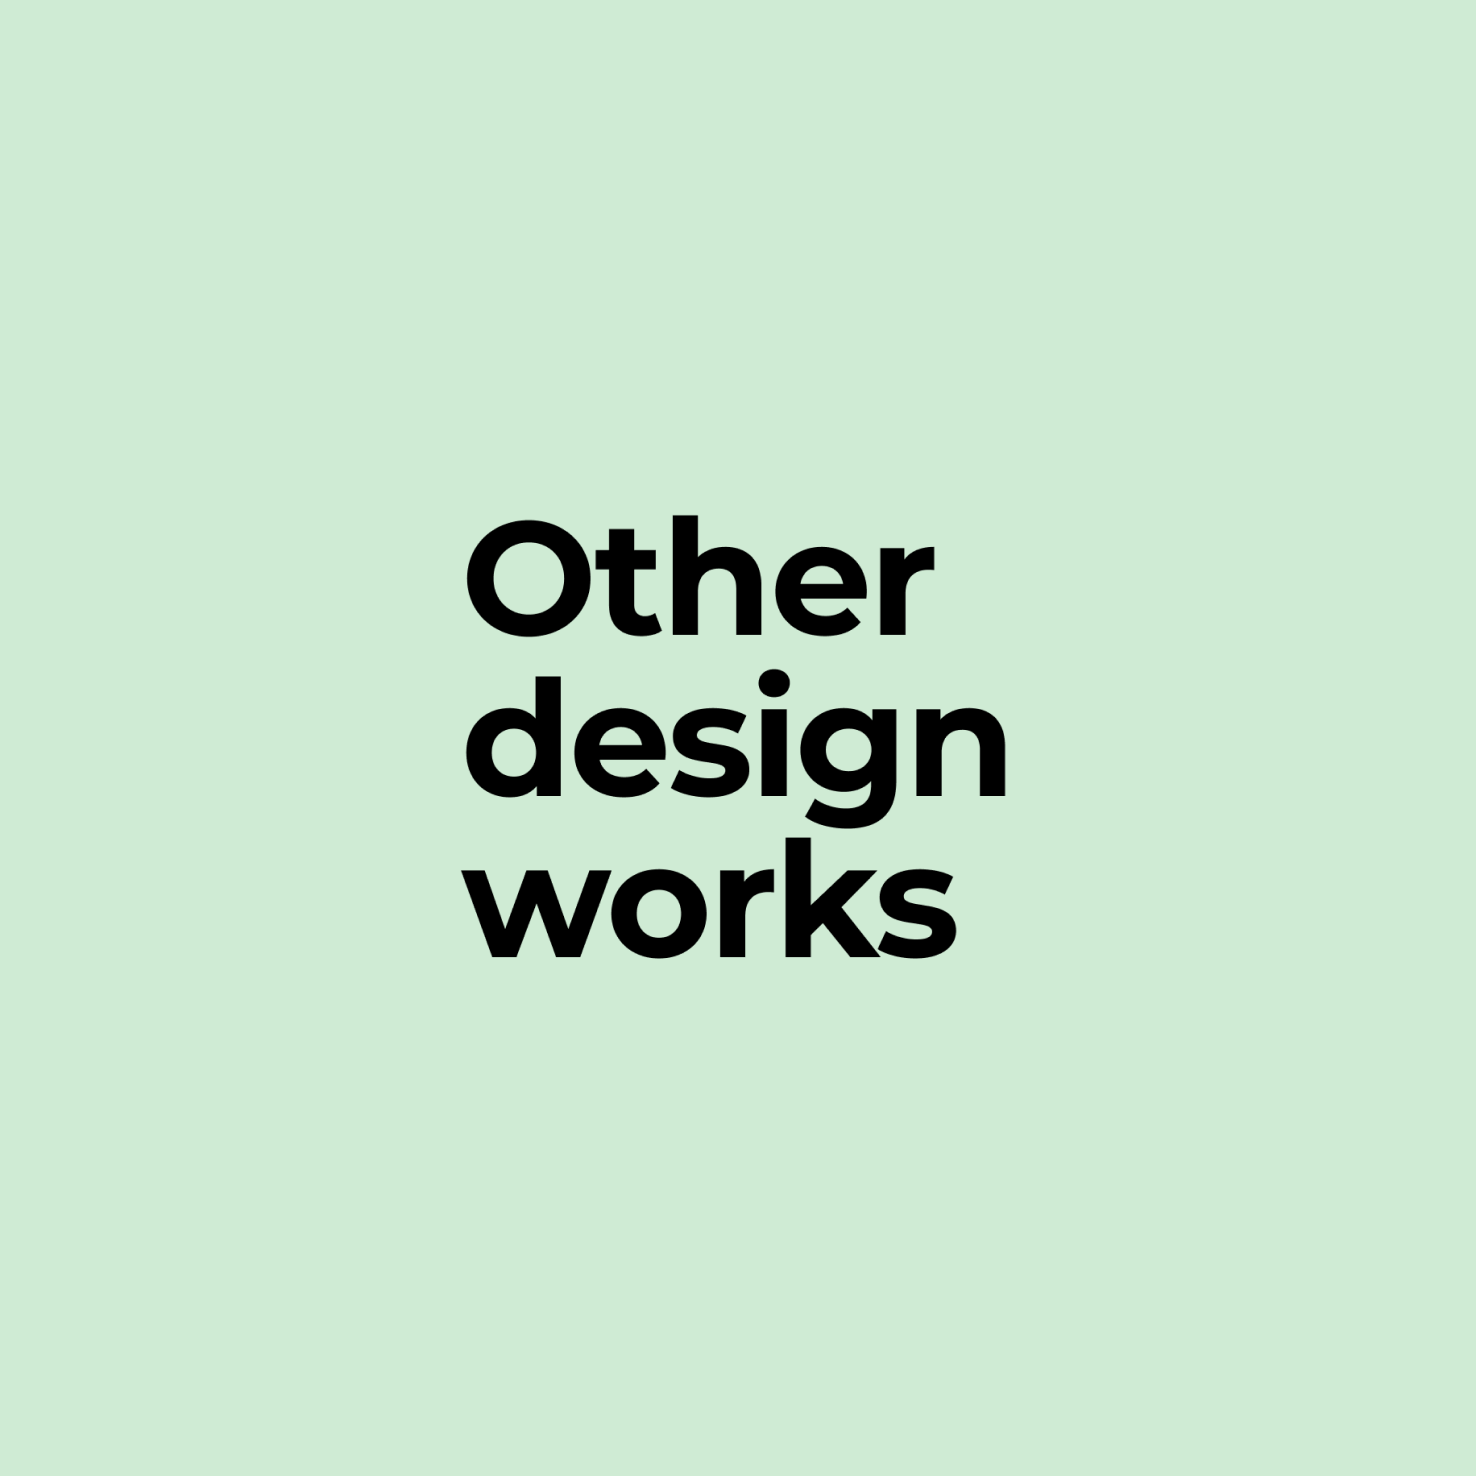
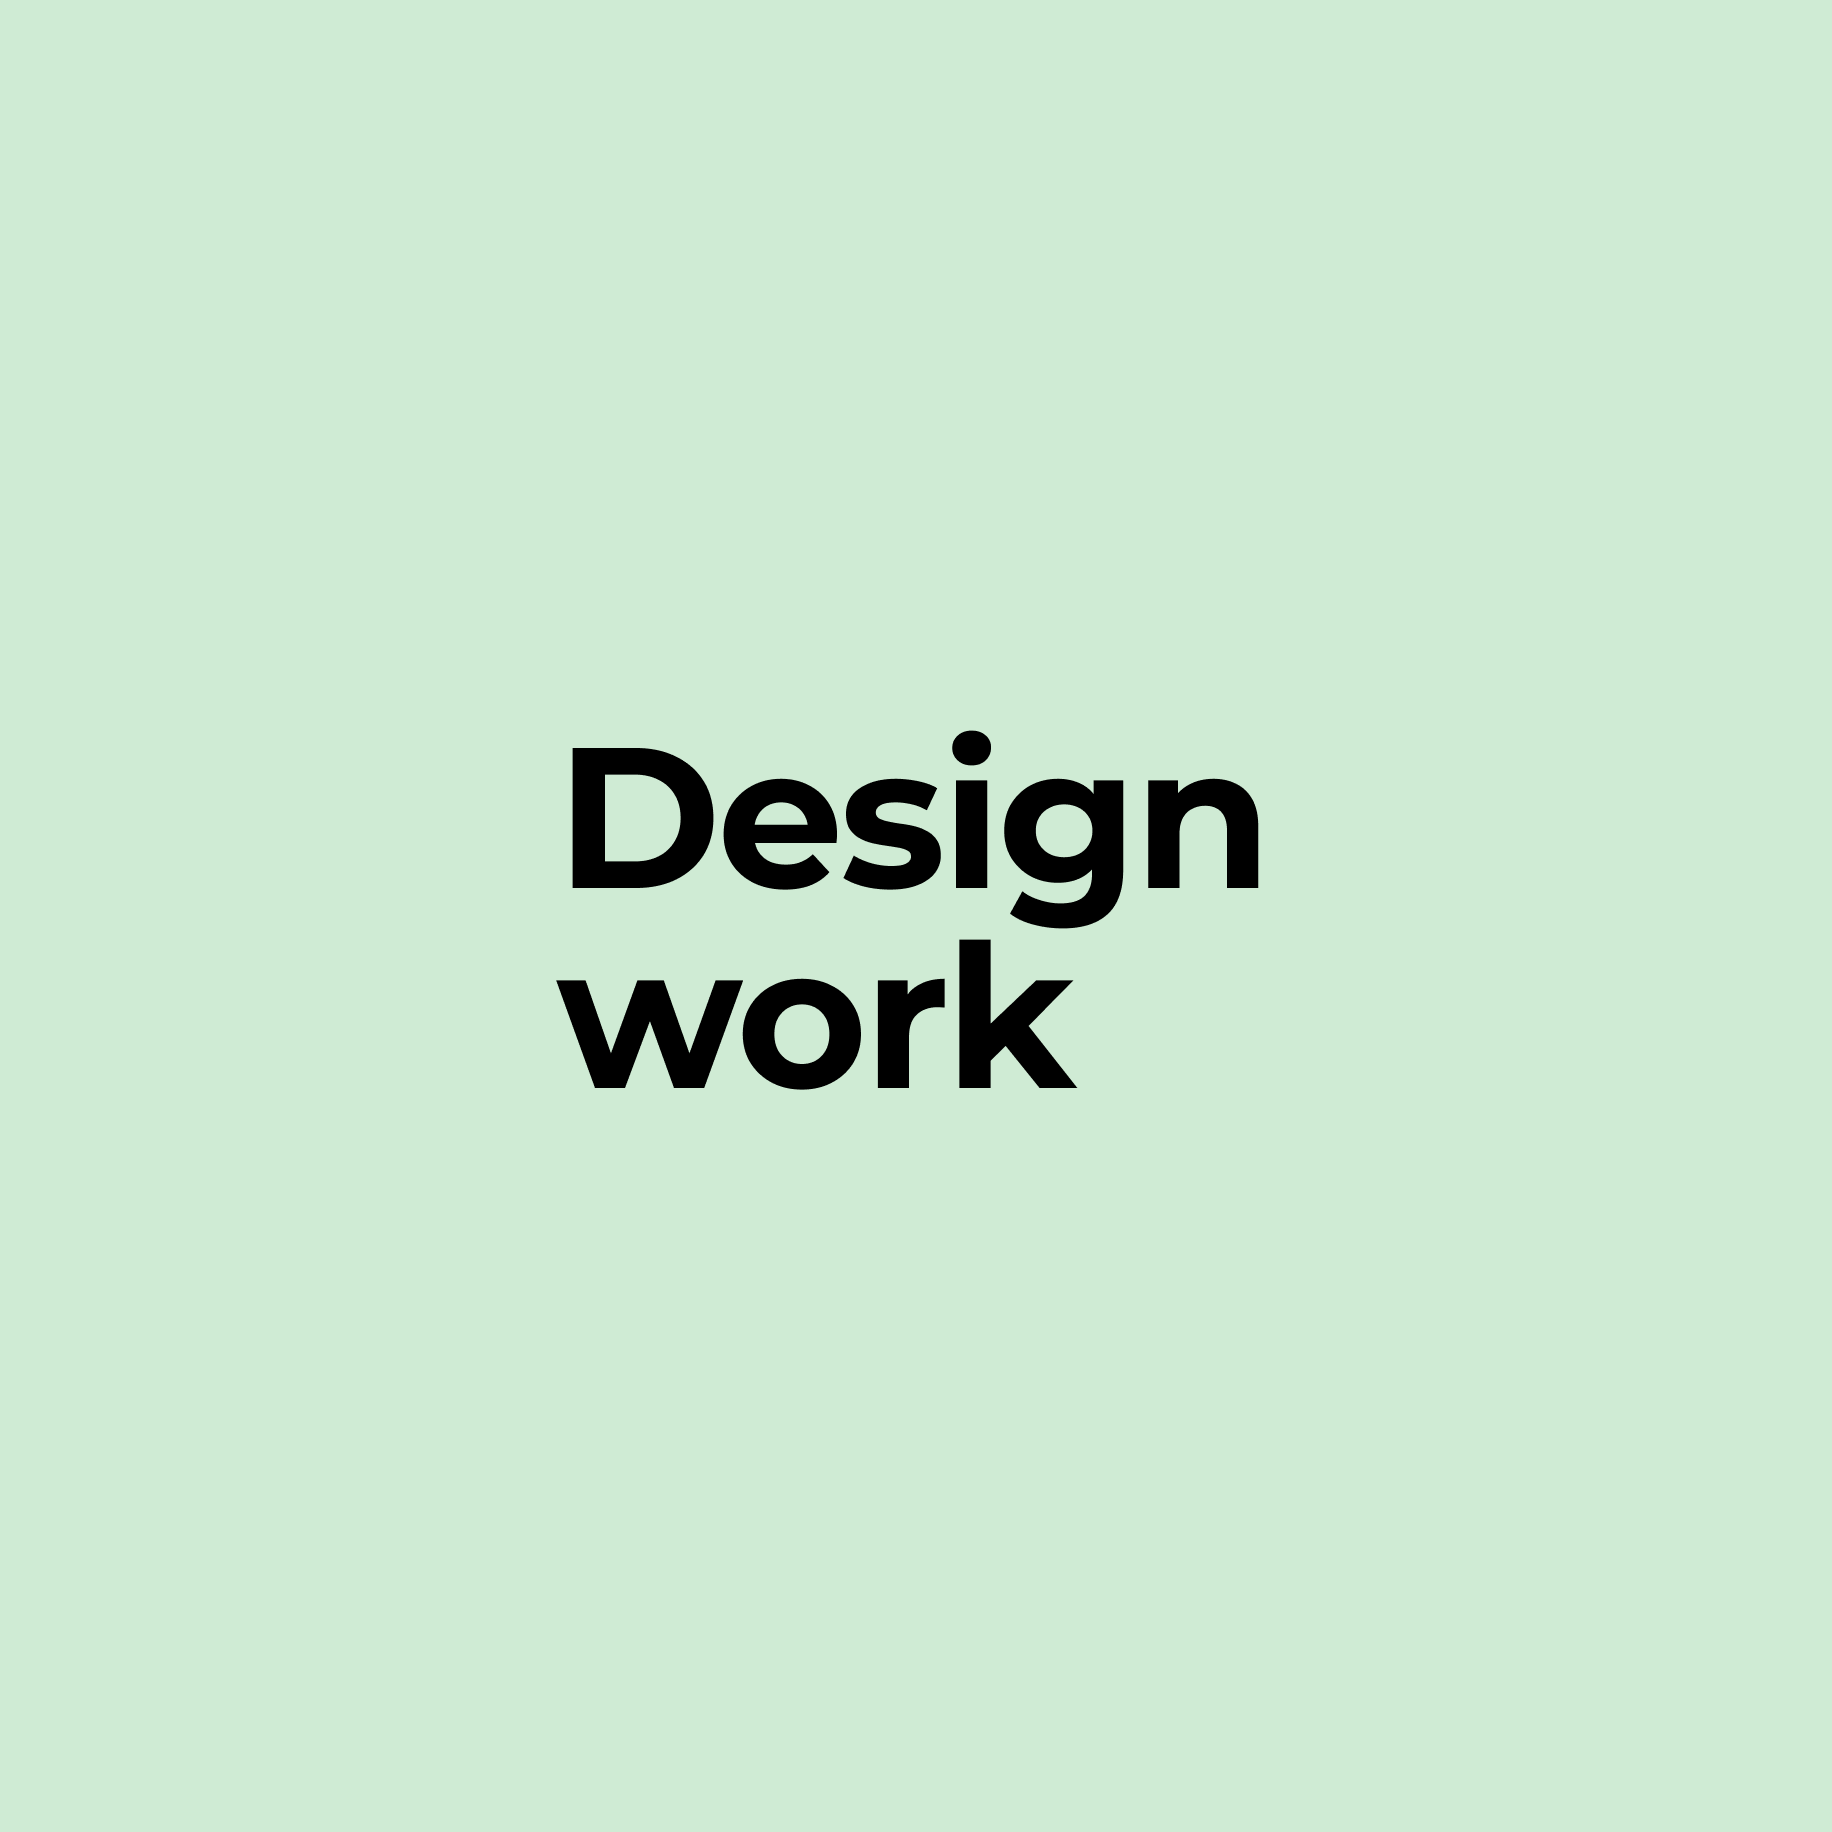
Update thumbnails and descriptions

Changed region(s): [[0.2805, 0.3428, 0.6856, 0.6545]]

diff --git a/index.html b/index.html
@@ -38,6 +38,58 @@
 
         <div class="project-card">
           <div class="project">
+            <p class="label absolute-label">Web development</p>
+            <img src="/media/sampompom.png" alt="Thumbnail image for Sampompom project">
+          </div>
+          <div class="project-content">
+            <h2>Sampompom</h2>
+            <p>Final project for Le Wagon Tokyo Bootcamp: SAMPOMPOM is a stamp
+              rally generator to help support local shopping streets. All the
+              user needs to do is input the information of the rally they want to host and they will get
+              an QR code with a printing option for participating stores to display.
+              This is also an app for those who want to experience local life in Japan while getting
+              rewards when they complete stamp rallies.</p>
+            <ul>
+              <li class="label ruby">Rails</li>
+              <li class="label scss">SCSS</li>
+              <li class="label js">JavaScript</li>
+              <li class="label sql">SQL</li>
+          </ul>
+            </ul>
+            <ul class="links">
+              <a href="https://www.sampompom.team" class="btn btn-small" target="_blank">Site</a>
+              <a href="https://github.com/atsumu22/rails-san-pon-pon" class="btn btn-small" target="_blank">Code</a>
+              <a href="/projects/sampompom.html" class="btn btn-small">About</a>
+            </ul>
+          </div>
+        </div>
+
+        <div class="project-card">
+          <div class="project">
+            <p class="label absolute-label">Web development</p>
+            <img src="/media/kitschy.png" alt="Thumbnail image for for Kitschy project">
+          </div>
+          <div class="project-content">
+            <h2>Kitschy</h2>
+            <p>Marketplace project for Le Wagon: an app that helps people to connect with others
+              to meet others while learning how to cook Meet local and discover cooking
+              lessons offered by local teachers.Connect with fellow foodies in your area.
+              Create unique cuisines as people share with you their cuisine, food, kitchens at your doorstep.</p>
+            <ul>
+              <li class="label ruby">Rails</li>
+              <li class="label scss">SCSS</li>
+              <li class="label js">JavaScript</li>
+              <li class="label sql">SQL</li>
+            </ul>
+            <ul class="links">
+              <a href="https://rails-kitschy.herokuapp.com/" class="btn btn-small" target="_blank">Site</a>
+              <a href="https://github.com/mcosme000/rails-kitschy" class="btn btn-small" target="_blank">Code</a>
+            </ul>
+          </div>
+        </div>
+
+        <div class="project-card">
+          <div class="project">
             <p class="label absolute-label">UX/UI design</p>
             <img src="/media/chiketto.png" alt="Thumbnail image for Chiketto project">
           </div>
@@ -51,9 +103,9 @@
               <li class="label figma">Figma</li>
             </ul>
             <ul class="links">
-              <a href="https://www.behance.net/gallery/130411061/Movie-ticket-app-UXUI-case-study" class="btn btn-small">Behance</a>
-              <a href="#" class="btn btn-small">Figma</a>
-              <a href="./projects/chiketto.html" class="btn btn-small">About</a>
+              <a href="https://www.behance.net/gallery/130411061/Movie-ticket-app-UXUI-case-study" class="btn btn-small" target="_blank">Behance</a>
+              <a href="https://www.figma.com/proto/8VjWVSauHrjuf6BZlZMpJo/Tickers-Hi-fi-wireframe?page-id=0%3A1&node-id=6-1948&viewport=241%2C48%2C0.06&scaling=scale-down&starting-point-node-id=10%3A829"
+                class="btn btn-small" target="_blank">Figma</a>
             </ul>
 
           </div>
@@ -75,9 +127,8 @@
               <li class="label figma">Figma</li>
             </ul>
             <ul class="links">
-              <a href="https://www.behance.net/gallery/131169667/Responsive-Website-for-a-local-bakery-Case-study" class="btn btn-small">Behance</a>
-              <a href="#" class="btn btn-small">Figma</a>
-              <a href="/projects/harumi.html" class="btn btn-small">About</a>
+              <a href="https://www.behance.net/gallery/131169667/Responsive-Website-for-a-local-bakery-Case-study" class="btn btn-small" target="_blank">Behance</a>
+              <a href="#" class="btn btn-small" target="_blank">Figma</a>
             </ul>
           </div>
       </div>
@@ -98,8 +149,8 @@
               <li class="label js">JavaScript</li>
             </ul>
             <ul class="links">
-              <a href="https://las-lauras.vercel.app/" class="btn btn-small">Site</a>
-              <a href="https://github.com/mcosme000/Las_Lauras" class="btn btn-small">Code</a>
+              <a href="https://las-lauras.vercel.app/" class="btn btn-small" target="_blank">Site</a>
+              <a href="https://github.com/mcosme000/Las_Lauras" class="btn btn-small" target="_blank">Code</a>
             </ul>
 
           </div>
@@ -120,8 +171,8 @@
               <li class="label js">JavaScript</li>
             </ul>
             <ul class="links">
-              <a href="https://chat-app-two-dun.vercel.app/" class="btn btn-small">Site</a>
-              <a href="https://github.com/mcosme000/chat-app" class="btn btn-small">Code</a>
+              <a href="https://chat-app-two-dun.vercel.app/" class="btn btn-small" target="_blank">Site</a>
+              <a href="https://github.com/mcosme000/chat-app" class="btn btn-small" target="_blank">Code</a>
             </ul>
           </div>
         </div>
@@ -142,69 +193,29 @@
               <li class="label js">JavaScript</li>
             </ul>
             <ul class="links">
-              <a href="https://recipe-app-mcosme000.vercel.app/" class="btn btn-small">Site</a>
-              <a href="https://github.com/mcosme000/Recipe-App" class="btn btn-small">Code</a>
+              <a href="https://recipe-app-mcosme000.vercel.app/" class="btn btn-small" target="_blank">Site</a>
+              <a href="https://github.com/mcosme000/Recipe-App" class="btn btn-small" target="_blank">Code</a>
             </ul>
           </div>
         </div>
+
 
         <div class="project-card">
           <div class="project">
-            <p class="label absolute-label">Web development</p>
-            <img src="/media/foods.png" alt="Thumbnail image for Sampompom project">
-          </div>
-          <div class="project-content">
-            <h2>Sampompom</h2>
-            <p>Final project for Le Wagon Tokyo Bootcamp: SAMPOMPOM is a stamp
-              rally generator to help support local shopping streets. All the
-              user needs to do is input the information of the rally they want to host and they will get
-              an QR code with a printing option for participating stores to display.
-              This is also an app for those who want to experience local life in Japan while getting
-              rewards when they complete stamp rallies.</p>
-            <ul>
-              <li class="label ruby">Rails</li>
-              <li class="label scss">SCSS</li>
-              <li class="label js">JavaScript</li>
-              <li class="label sql">SQL</li>
-          </ul>
-            </ul>
-            <ul class="links">
-              <a href="https://www.sampompom.team" class="btn btn-small">Site</a>
-              <a href="https://github.com/atsumu22/rails-san-pon-pon" class="btn btn-small">Code</a>
-              <a href="/projects/sampompom.html" class="btn btn-small">About</a>
-            </ul>
-          </div>
-        </div>
-
-        <div class="project-card">
-          <div class="project">
-            <p class="label absolute-label">Web development</p>
-            <img src="/media/foods.png" alt="Thumbnail image for for Kitschy project">
-          </div>
-          <div class="project-content">
-            <h2>Kitschy</h2>
-            <p>Marketplace project for Le Wagon: an app that helps people to connect with others
-              to meet others while learning how to cook Meet local and discover cooking
-              lessons offered by local teachers.Connect with fellow foodies in your area.
-              Create unique cuisines as people share with you their cuisine, food, kitchens at your doorstep.</p>
-            <ul>
-              <li class="label ruby">Rails</li>
-              <li class="label scss">SCSS</li>
-              <li class="label js">JavaScript</li>
-              <li class="label sql">SQL</li>
-          </ul>
-            <ul class="links">
-              <a href="https://rails-kitschy.herokuapp.com/" class="btn btn-small">Site</a>
-              <a href="https://github.com/mcosme000/rails-kitschy" class="btn btn-small">Code</a>
-            </ul>
-          </div>
-        </div>
-
-        <!-- <a href="/pages/projects/design.html">
-          <div class="project">
+            <p class="label absolute-label">Design</p>
             <img src="/media/design.png" alt="">
           </div>
-        </a> -->
+          <div class="project-content">
+            <h2>Design work</h2>
+            <p>Some of the design work I made for my previous company. They are made
+              on Illustrator y blablabla
+            </p>
+            <ul class="links">
+              <a href="./projects/design.html" class="btn btn-small" target="_blank">About</a>
+            </ul>
+          </div>
+
+        </div>
 
       </div>
     </div>

diff --git a/projects/sampompom.html b/projects/sampompom.html
@@ -35,8 +35,8 @@
     </div>
   </header>
 
-  <div class="landing">
-    <img src="/media/lauras_cover.webp" alt="">
+  <div class="banner">
+    <!-- <img src="/media/lauras_cover.webp" alt=""> -->
   </div>
 
   <main>
@@ -47,24 +47,75 @@
           <li class="label ruby">Ruby on Rails</li>
           <li class="label scss">SCSS</li>
           <li class="label js">JavaScript</li>
+          <li class="label sql">SQL</li>
         </ul>
+      </div>
+    </div>
+
+    <div class="container-small">
+      <div class="contributors">
+        <h3>Contributors</h3>
+        <a href="" target="_blank"><img class="avatar" src="/media/maria.jpeg" alt="contributor photo"></a>
+        <a href="" target="_blank"><img class="avatar" src="/media/Jun.jpeg" alt="contributor photo"></a>
+        <a href="" target="_blank"><img class="avatar" src="/media/M.jpeg" alt="contributor photo"></a>
+        <a href="" target="_blank"><img class="avatar" src="/media/Jay.jpeg" alt="contributor photo"></a>
       </div>
     </div>
 
     <div class="section">
       <div class="container-small about">
         <h2>About this project</h2>
-        <p>This is the final project for LeWagon Bootcamp. I worked with other three team mates for a whole month.</p>
-        <p>The idea of Sampompom is to create </p>
-        <p>About stamp rallies (for people who doesn't live in japan) blablabla</p>
-        <p>This project has a QR code reading feature that allows you to scan the QR codes for each shop and</p>
 
-        <div class="links-container">
-          <a href="https://github.com/atsumu22/rails-san-pon-pon" class="btn" target="_blank">Source code</a>
-          <a href="https://www.sampompom.team/" class="btn" target="_blank">Live site</a>
-        </div>
+        <p>SAMPOMPOM is a stamp rally generator to help support local shopping streets.
+          A stamp rally is one of the ways to attract people to the shopping streets.
+          However, organizing a stamp rally event is time consuming for most people.
+          This app works to reduce the amount of time needed to prepare stamp rally events.</p>
+
+        <p>All the user needs to do is input the information of the rally they want to host.
+          Then, a QR code is generated with a printing option for participating stores to display. </p>
+
+        <p>SAMPOMPOM also works for those who want to experience local life in Japan.
+          Participants for the stamp rally can enjoy visiting the local shotengai -
+          collecting the rally stamps via the in-store QR code.
+          Once all the stamps are collected, they can redeem a reward which makes
+          the participants' local trip a little more sweeter. </p>
+
       </div>
+
+      <div class="container-small">
+        <h2>Figma prototypes</h2>
+        <p>These are the low fidelity prototypes we created on Figma. They look very different
+          to the final project in terms of structure
+        </p>
+        <iframe style="border: 1px solid rgba(0, 0, 0, 0.1);" width="800" height="450" src="https://www.figma.com/embed?embed_host=share&url=https%3A%2F%2Fwww.figma.com%2Fproto%2Fa8r0vifDA5eVP97kDdDGDI%2FStamp-Rally-Generator%3Fpage-id%3D10%253A33%26node-id%3D152-2930%26viewport%3D167%252C404%252C0.23%26scaling%3Dscale-down%26starting-point-node-id%3D152%253A2930" allowfullscreen></iframe>
+      </div>
+
+      <div class="container-small">
+        <h2>Schema for the Database</h2>
+        <img src="/media/sampompom_schema.png" alt="database schema for the project Sampompom">
+      </div>
+
+      <div class="container-small">
+        <h2>App features</h2>
+        <p>This app has two main features: generation of QR codes and PDF creation and a camera function that
+          scans those codes.</p>
+        <p>For the first one we used the gems <a href="https://github.com/whomwah/rqrcode" target="_blank" class="link">RQRCODE</a>
+        and <a href="https://github.com/mileszs/wicked_pdf" target="_blank" class="link">Wicked pdf</a>.
+        The first one generates a QR code and the second one generates a PDF with the QR code information, an easy way for
+        the stamp rally organizers to generate codes without actually worrying about code.</p>
+        <p>The QR code scanner function was implemented with </p>
+      </div>
+
+      <div class="links-container">
+        <a href="https://github.com/atsumu22/rails-san-pon-pon" class="btn" target="_blank">Source code</a>
+        <a href="https://www.sampompom.team/" class="btn" target="_blank">Live site</a>
+      </div>
+
+
     </div>
+
+
+
   </main>
 
   <footer>

diff --git a/src/components/project.css b/src/components/project.css
@@ -22,14 +22,9 @@
 
 .project img {
   width: 400px;
-  height: 400px;
-  transition: ease-out 0.2s;
+  height: 300px;
+  object-fit: cover;
 }
-
-.project img:hover{
-  opacity: 0.8;
-}
-
 
 /* PROJECT PAGE */
 
